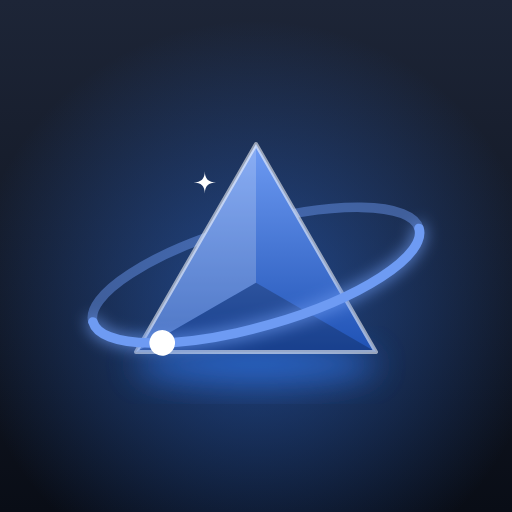
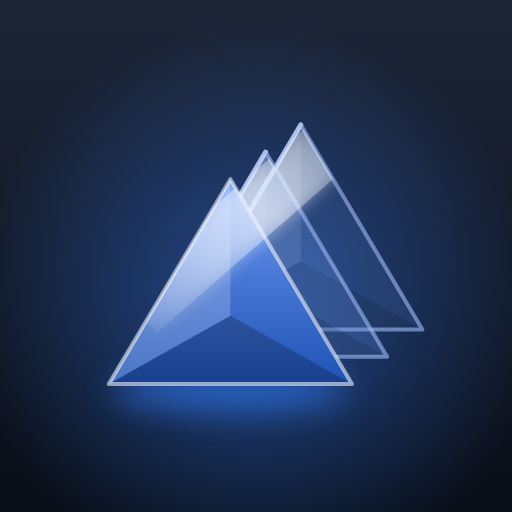
2.6.34.0 - Ícone novo da Web
Escolha do Thomás em 16/10/2026, depois do teste nas abas do Chrome e do
Edge (temas claro e escuro, 16, 24 e 32 pontos): o prisma com duas abas de
vidro atrás e o feixe de luz que atravessa as três (o mesmo sistema em
várias páginas).
- Aba do navegador (favicon.ico 16/32/48 e icone-web.svg): a versão
  simplificada, sem fundo. No 16 o feixe fino da completa sumia e as abas
  viravam um clarão; a simplificada tem o prisma maior, as abas com cor
  cheia e aresta grossa e o feixe largo, e fica maior que o anterior.
- Atalho do celular (apple-touch-icon, icon-192, icon-512, maskable-512): a
  completa, com o vidro escuro.
- O favicon.svg não muda: é o logo usado dentro das telas e nas
  notificações.
Pacote em _claude-sync/icones/web (a pasta antiga em web/_antes-2026-10-16).

Changed region(s): [[0.1562, 0.2188, 0.8438, 0.8438]]

diff --git a/index.html b/index.html
@@ -5,7 +5,8 @@
   <meta charset="UTF-8" />
   <meta name="viewport" content="width=device-width, initial-scale=1.0" />
   <meta name="google" content="notranslate" />
-  <!-- Ícone aprovado em 09/10/2026 (_claude-sync/icones). O favicon.svg antigo continua: é o logo usado dentro das telas. -->
+  <!-- Ícone aprovado em 16/10/2026 (_claude-sync/icones/web): na aba, a versão simplificada sem fundo; no atalho do celular, a
+       Nova 5 com o vidro. O favicon.svg antigo continua: é o logo usado dentro das telas. -->
   <link rel="icon" href="/favicon.ico" sizes="16x16 32x32 48x48" />
   <link rel="icon" type="image/svg+xml" href="/icone-web.svg" />
   <link rel="apple-touch-icon" href="/apple-touch-icon.png" />
